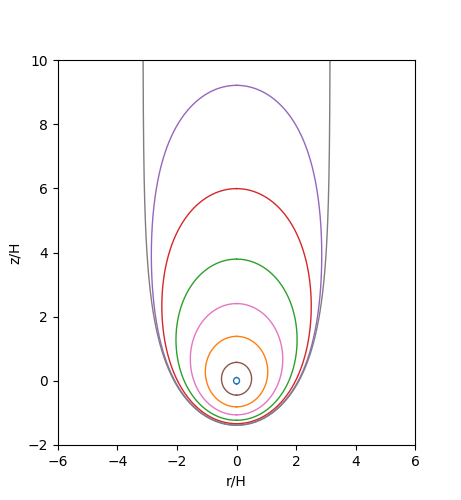
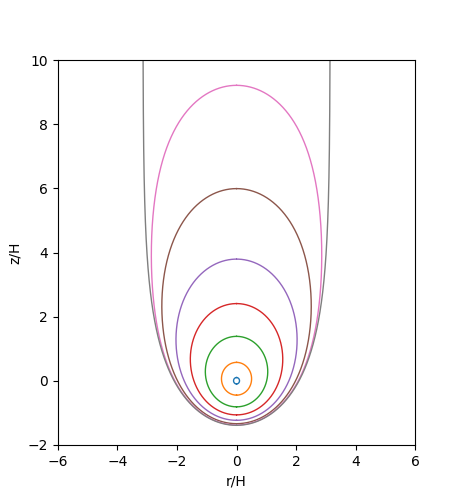
finish writeup and add animation

diff --git a/superbubbles.py b/superbubbles.py
@@ -37,6 +37,8 @@ def rmax(y):
 
 
 def shockfronts():
+	import imageio
+
 	z = np.arange(-2, 10, 0.00001)
 	y = [0.1, 0.5, 1, 1.4, 1.7, 1.9, 1.98, 2.0]
 	figure1 = {
@@ -51,6 +53,32 @@ def shockfronts():
 	for i, yi in enumerate(tqdm(y)):
 		figure1[i] = {'x': np.concatenate((r(z, y[i]), -r(z, y[i]))), 'y': np.concatenate((z,z)), 'label': '$y=$'+str(yi)}
 	plawt.plot(figure1)
+
+	animation = {
+		'ylabel': 'z/H', 'xlabel': 'r/H',
+		'ylim': (-2, 10), 'xlim': (-6, 6),
+		'figsize': (6/1.3, 6.5/1.3),
+		'title': 'Likely how W4 expanded',
+		'show': False,
+		'keepOpen': True,
+		'legend': {'loc':4}
+	}
+	y = np.arange(0.01, 2.05, 0.05)
+	with imageio.get_writer('blast.gif', mode='I', fps=24) as writer:
+		for i, t in enumerate(tqdm(y)):
+			animation[0] = {'x': np.concatenate((r(z, y[i]), -r(z, y[i]))), 'y': np.concatenate((z,z)),
+				'line':'k-', 'label':'$y=$'+str(y[i])}
+			plt = plawt.plot(animation)
+			fig = plt.gcf()
+			fig.canvas.draw()
+			data = fig.canvas.tostring_rgb()
+			row, col = fig.canvas.get_width_height()
+			image = np.fromstring(data, dtype=np.uint8).reshape(col, row, 3)
+			writer.append_data(image)
+			plt.close()
+
+shockfronts()
+exit()
 ### Math Helpers ###
 
 # Derivatives of stuff
@@ -152,7 +180,7 @@ plawt.plot({
 	'show':False,
 	'filename': os.path.join(figdir,'blastedgespeed.png'),
 	'title': "Blast Edge Speed",
-	'xlabel': '\\tilde{t}',
+	'xlabel': '$\\tilde{t}$',
 	'ylabel': '$d\\tilde{z}_1/dt$',
 	'set_yscale': 'log', 'set_xscale': 'log',
 	'xlim': (0.01, 10), 'ylim': (0.01, 10.0),

diff --git a/README.md b/README.md
@@ -1,3 +1,3 @@
 ![image](bubblefig.png)
-![plot](shockfront.png)
+![plot](blast.gif)
 
